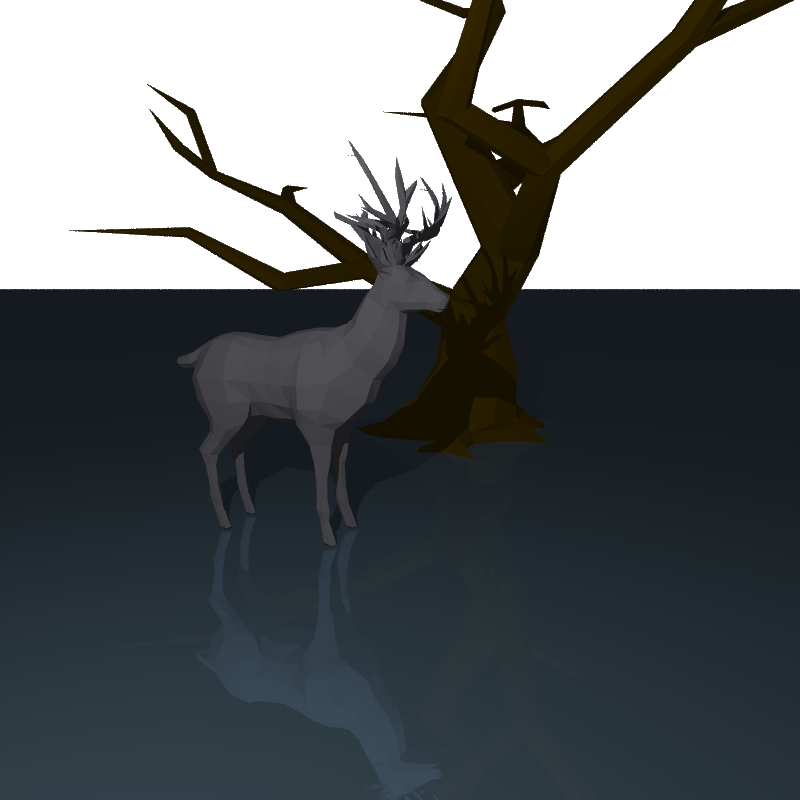
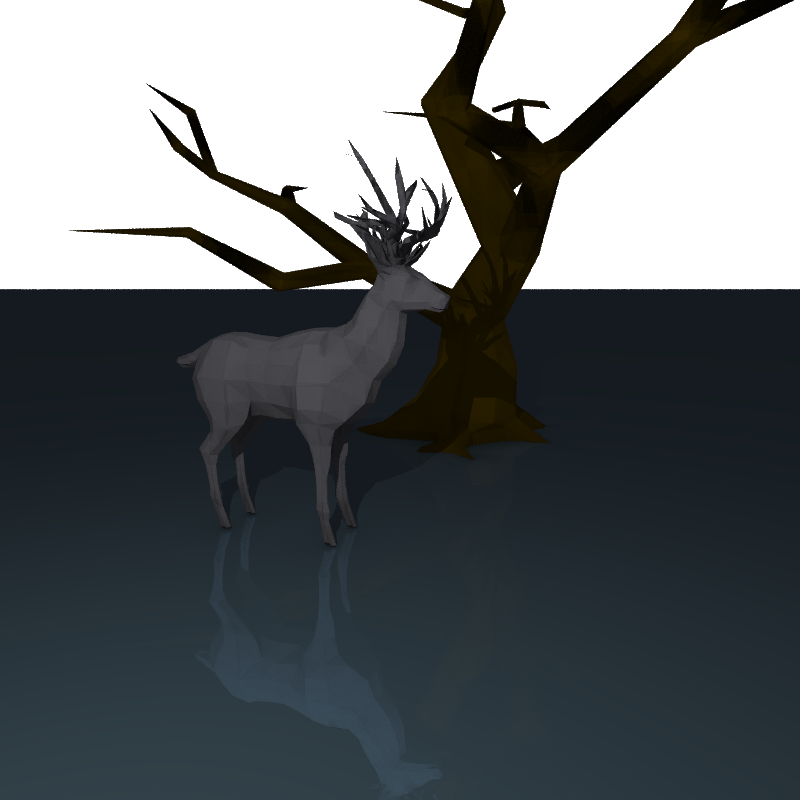
Render all scenes with ambient occlusion

diff --git a/renders/renders.md b/renders/renders.md
@@ -4,43 +4,43 @@ _spp = samples per pixel_
 
 #### `scenes/scene.json`
 
-800 x 800 pixels (4 spp), 1,524 primitives, 51,754,796 rays, 17.629s on i7 8650U
+800 x 800 pixels (4 spp), 1,524 primitives, 112,811,095 rays, 34.393s on i7 8650U
 
 ![scene.json](./scene.png)
 
 #### `scenes/mesh.json`
 
-800 x 800 pixels (8 spp), 2,269 primitives, 12,076,369 rays, 5.589s on i7 8650U
+800 x 800 pixels (8 spp), 2,269 primitives, 70,711,320 rays, 22.744s on i7 8650U
 
 ![mesh.json](./mesh.png)
 
 #### `scenes/refraction.json`
 
-800 x 800 pixels (4 spp), 6 primitives, 139,727,690 rays, 8.539s on i7 8650U
+800 x 800 pixels (4 spp), 6 primitives, 188,986,845 rays, 12.274s on i7 8650U
 
 ![refraction.json](./refraction.png)
 
 #### `scenes/physical.json`
 
-800 x 800 pixels (4 spp), 50 primitives, 367,469,647 rays, 47.398s on i7 8650U
+800 x 800 pixels (4 spp), 50 primitives, 453,358,438 rays, 47.895s on i7 8650U
 
 ![physical.json](./physical.png)
 
 #### `scenes/mesh_test.json`
 
-800 x 800 pixels (4 spp), 41,372 primitives, 8,015,196 rays, 5.772s on i7 8650U
+800 x 800 pixels (4 spp), 41,372 primitives, 39,250,881 rays, 23.666s on i7 8650U
 
 ![mesh_test.json](./mesh_test.png)
 
 #### `scenes/occlusion.json`
 
-800 x 800 pixels (1 spp), 8 primitives, 54,781,516 rays, 5.461s on i7 8650U
+800 x 800 pixels (4 spp), 8 primitives, 29,345,106 rays, 2.141s on i7 8650U
 
 ![occlusion.json](./occlusion.png)
 
 #### `scenes/test.json`
 
-800 x 800 pixels (4 spp), 9 primitives, 6,851,919 rays, 457ms on i7 8650U
+800 x 800 pixels (4 spp), 9 primitives, 35,717,574 rays, 2.975s on i7 8650U
 
 ![test.json](./test.png)
 
